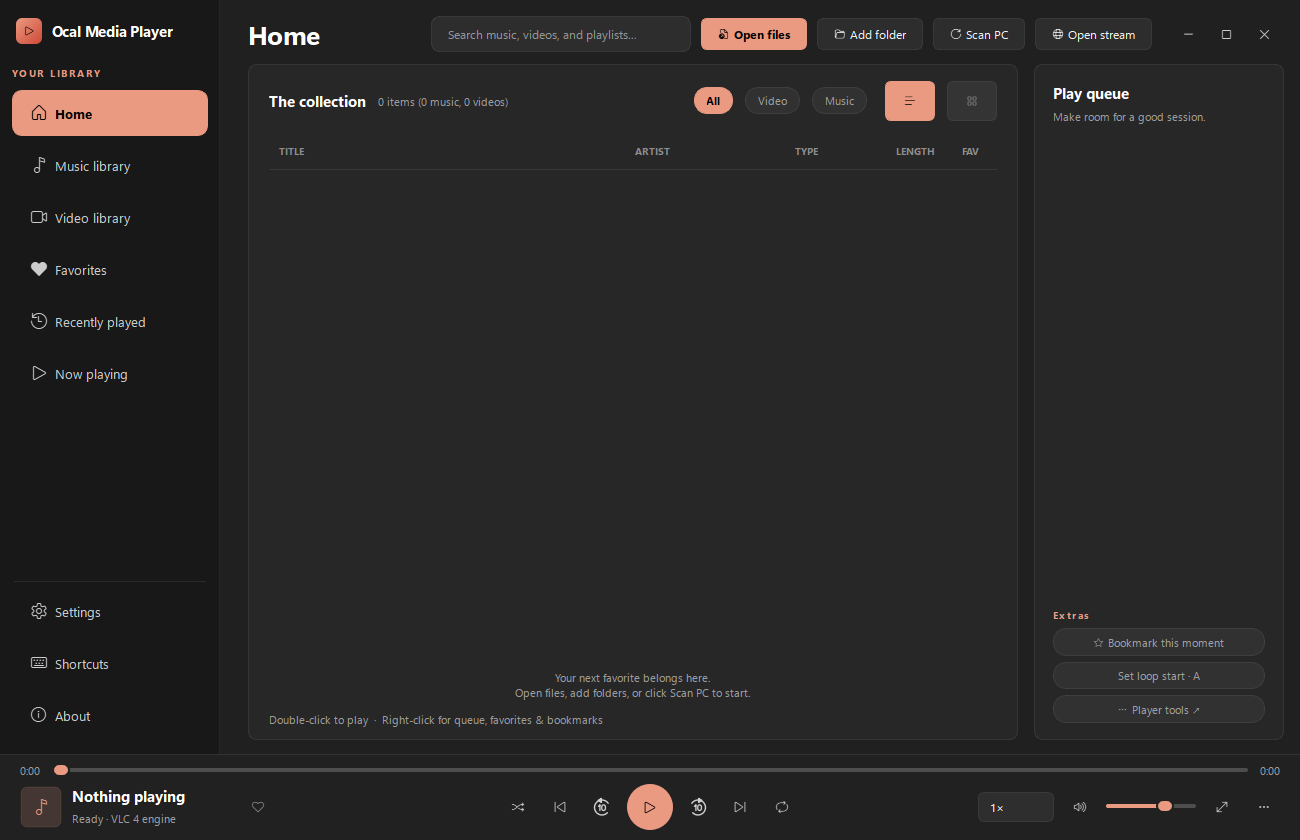
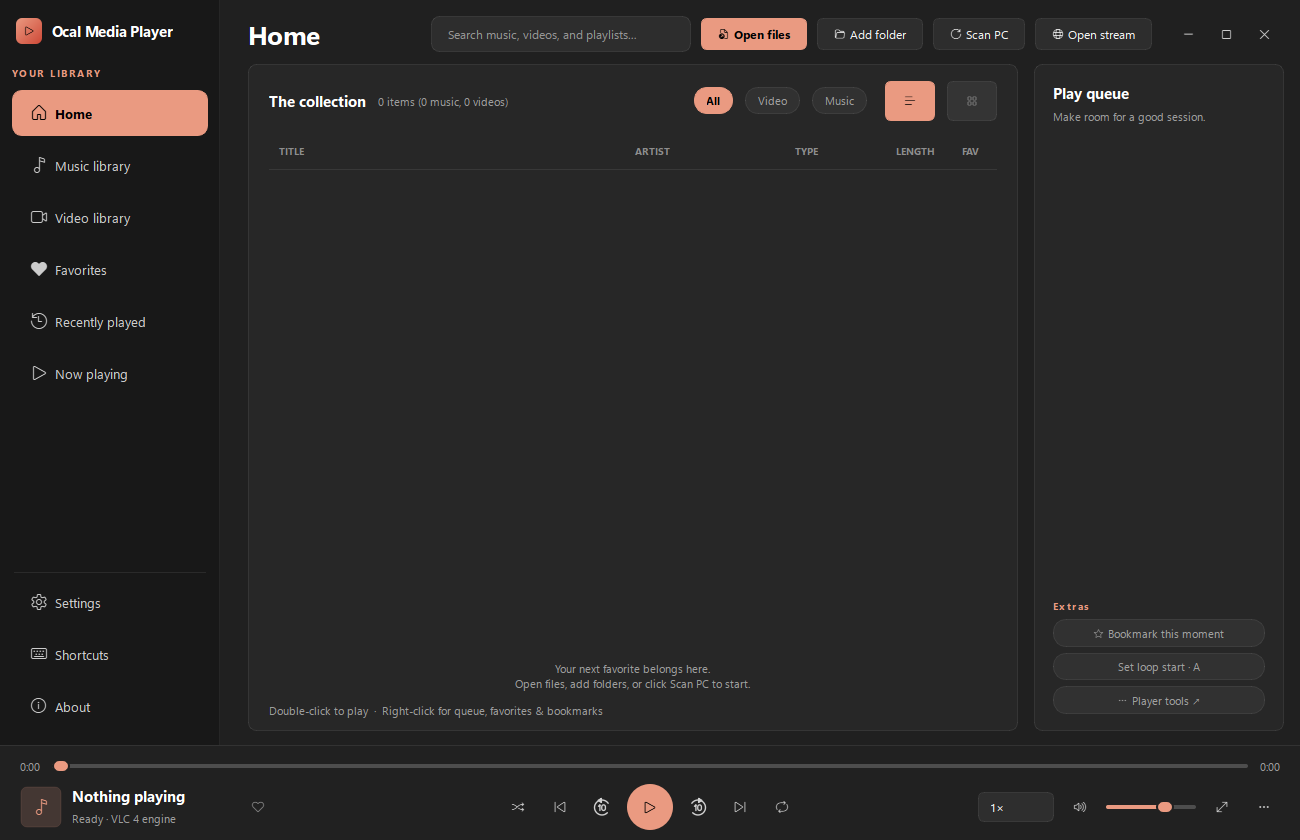
fix: instant seek on mouse down and guard VLC asynchronous seek time reporting

diff --git a/src/app.py b/src/app.py
@@ -128,17 +128,21 @@ class ClickableSlider(QSlider):
         hr = self.style().subControlRect(QStyle.ComplexControl.CC_Slider, opt, QStyle.SubControl.SC_SliderHandle, self)
 
         if self.orientation() == Qt.Orientation.Horizontal:
+            total_w = gr.width() if gr.width() > 0 else self.width()
             hw = hr.width() if hr.width() > 0 else 14
-            min_pos = gr.left() + hw // 2
-            max_pos = gr.right() - hw // 2
+            min_pos = gr.left() + hw // 2 if gr.width() > 0 else hw // 2
+            max_pos = gr.right() - hw // 2 if gr.width() > 0 else (total_w - hw // 2)
             span = max_pos - min_pos
             if span <= 0:
-                return self.minimum()
-            ratio = max(0.0, min(1.0, (pos_coord - min_pos) / float(span)))
+                span = max(1, total_w)
+                ratio = max(0.0, min(1.0, pos_coord / float(span)))
+            else:
+                ratio = max(0.0, min(1.0, (pos_coord - min_pos) / float(span)))
         else:
+            total_h = gr.height() if gr.height() > 0 else self.height()
             hh = hr.height() if hr.height() > 0 else 14
-            min_pos = gr.bottom() - hh // 2
-            max_pos = gr.top() + hh // 2
+            min_pos = gr.bottom() - hh // 2 if gr.height() > 0 else (total_h - hh // 2)
+            max_pos = gr.top() + hh // 2 if gr.height() > 0 else hh // 2
             span = max_pos - min_pos
             if span == 0:
                 return self.minimum()
@@ -840,6 +844,7 @@ class PlayerWindow(QMainWindow):
         self.seek = ClickableSlider(Qt.Orientation.Horizontal)
         self.seek.setRange(0, 10000)
         self.seek.setAccessibleName('Playback position')
+        self.seek.sliderPressed.connect(self.seek_released)
         self.seek.sliderMoved.connect(self.on_seek_moved)
         self.seek.sliderReleased.connect(self.seek_released)
         timeline.addWidget(self.elapsed)

diff --git a/src/engine.py b/src/engine.py
@@ -2,6 +2,7 @@
 import ctypes as C
 import os
 import sys
+import time
 from pathlib import Path
 
 ROOT = Path(getattr(sys, '_MEIPASS', Path(__file__).resolve().parent.parent))
@@ -112,11 +113,18 @@ class Engine:
 
     @property
     def time(self):
-        # VLC's clock may not publish an audio seek until playback resumes.
-        if self.paused_seek is not None and self.state == 3:
-            return self.paused_seek
-        self.paused_seek = None
-        return max(0, self._media_player_get_time(self.player) // 1000)
+        vlc_time = max(0, self._media_player_get_time(self.player) // 1000)
+        if self.paused_seek is not None:
+            if self.state == 3:
+                return self.paused_seek
+            # While playing, guard against VLC's asynchronous seek reporting delay
+            if time.monotonic() - getattr(self, '_seek_timestamp', 0) < 0.6:
+                if abs(vlc_time - self.paused_seek) < 1500:
+                    self.paused_seek = None
+                    return vlc_time
+                return self.paused_seek
+            self.paused_seek = None
+        return vlc_time
 
     @property
     def length(self):
@@ -128,10 +136,9 @@ class Engine:
 
     def seek(self, milliseconds):
         milliseconds = max(0, int(milliseconds))
-        result = self._media_player_set_time(self.player, milliseconds * 1000, False)
-        if result == 0 and self.state == 3:
-            self.paused_seek = milliseconds
-        return result
+        self.paused_seek = milliseconds
+        self._seek_timestamp = time.monotonic()
+        return self._media_player_set_time(self.player, milliseconds * 1000, False)
 
     def pause(self, paused=True):
         self._media_player_set_pause(self.player, int(paused))

diff --git a/src/theme.py b/src/theme.py
@@ -267,6 +267,10 @@ QFrame#transport[floating="true"] QPushButton#transport_round:hover {{
 QFrame#transport[floating="true"] QPushButton#transport_round:pressed {{
     background: rgba(255, 255, 255, 0.24);
 }}
+QFrame#transport[floating="true"] QSlider:horizontal {{
+    min-height: 24px;
+    height: 24px;
+}}
 QFrame#transport[floating="true"] QSlider::groove:horizontal {{
     height: 4px;
     background: rgba(255, 255, 255, 0.30);
@@ -592,6 +596,10 @@ QComboBox QAbstractItemView {{
     selection-color: {accent};
     padding: 4px;
     outline: none;
+}}
+QSlider:horizontal {{
+    min-height: 24px;
+    height: 24px;
 }}
 QSlider::groove:horizontal {{
     height: 4px;

diff --git a/tests/test_slider.py b/tests/test_slider.py
@@ -159,3 +159,4 @@ class TestClickableSlider(unittest.TestCase):
 
 if __name__ == '__main__':
     unittest.main()
+
